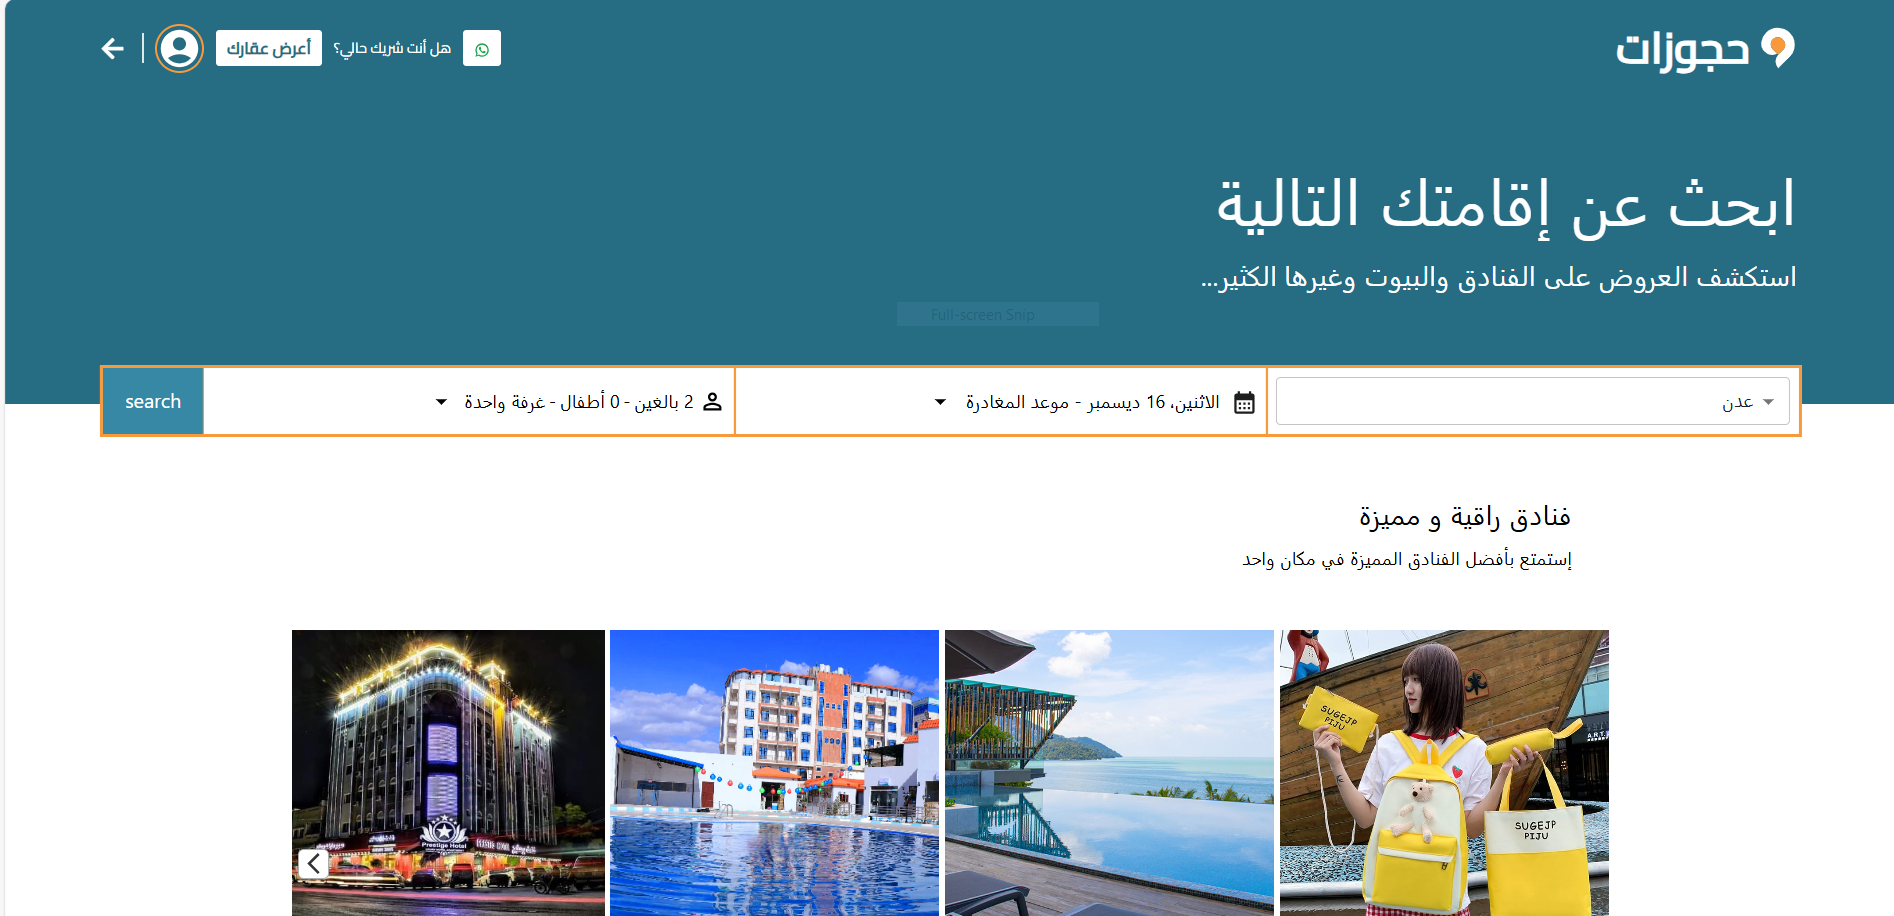
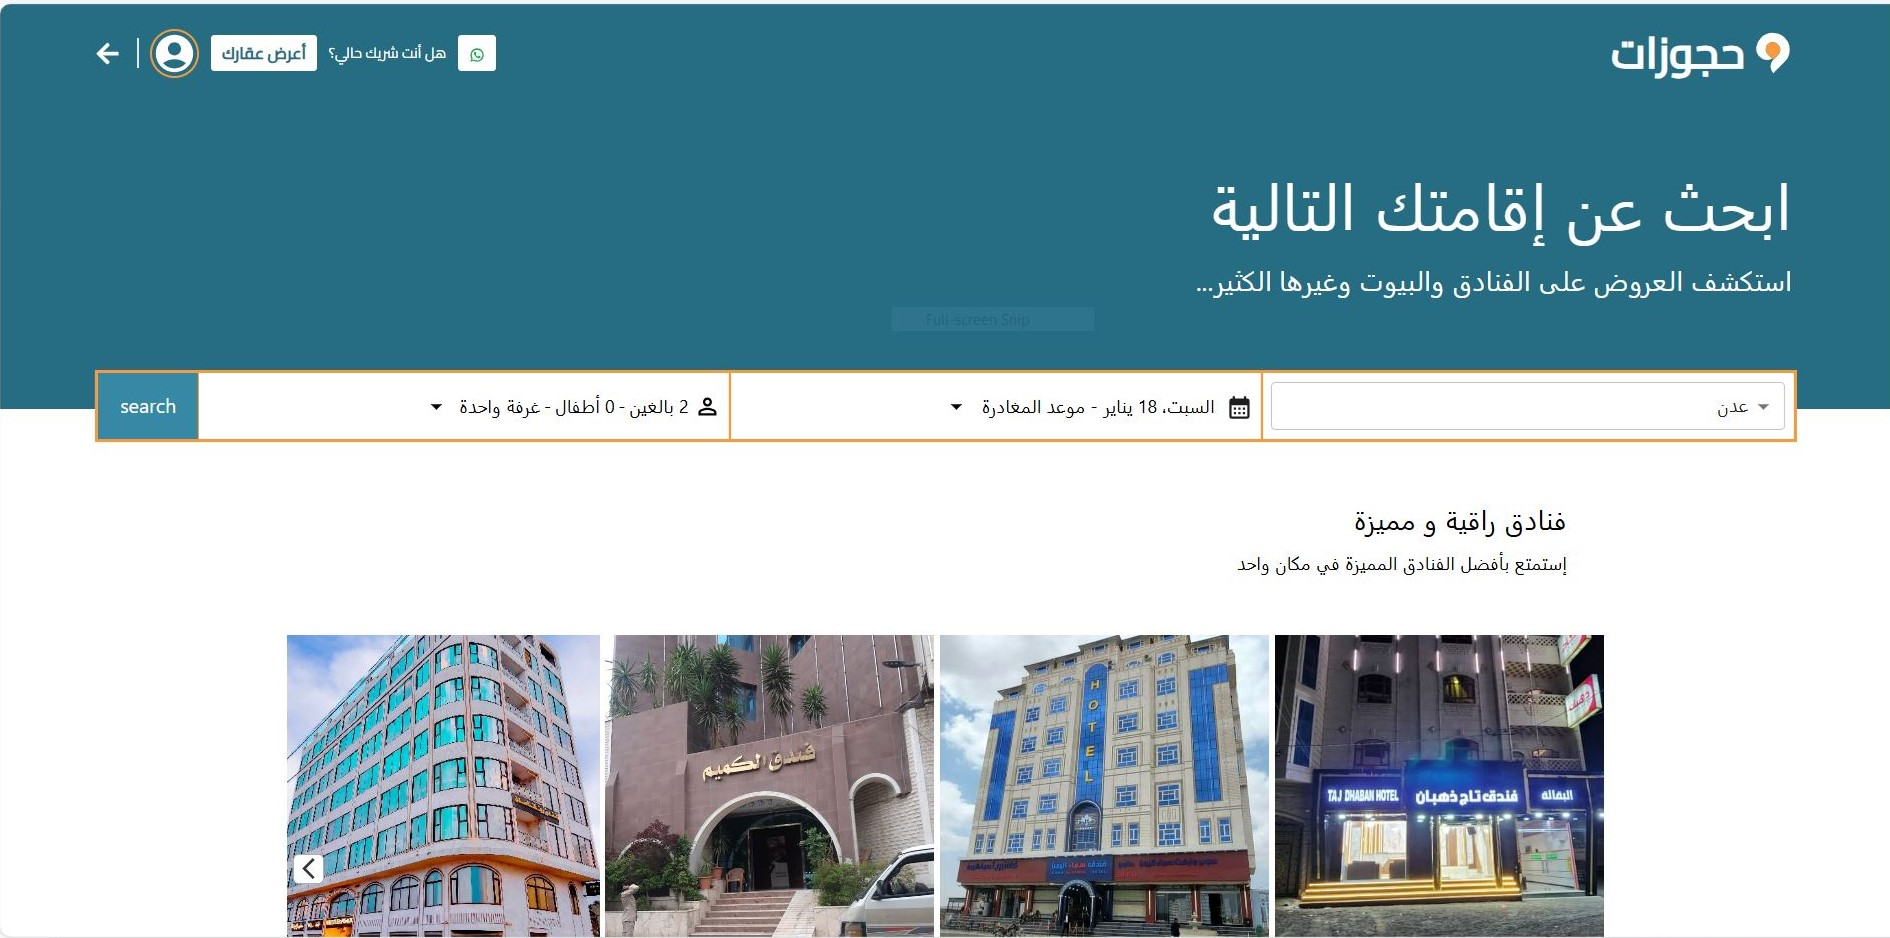
initial commmit

diff --git a/src/components/Projects.jsx b/src/components/Projects.jsx
@@ -10,7 +10,7 @@ import { Swiper, SwiperSlide } from "swiper/react";
 import SwiperCore from "swiper"
 import "swiper/css/bundle"
 const Projects = () => {
-    SwiperCore.use([Navigation, EffectCoverflow, Pagination])
+    SwiperCore.use([Navigation, EffectCoverflow])
 
 
 
@@ -39,10 +39,10 @@ const Projects = () => {
 
                     autoplay spaceBetween={10} centeredSlides={true} coverflowEffect={{
                         rotate: 0, depth: 100, modifier: 2.5, stretch: 0, slideShadows: 0
-                    }} effect="coverflow" grabCursor={true} loop={true} slidesPerView={1} modules={[Navigation, Pagination, EffectCoverflow]} pagination={{ clickable: true }} navigation={true}>
+                    }} effect="coverflow" grabCursor={true} loop={true} slidesPerView={1} modules={[Navigation, EffectCoverflow]} pagination={{ clickable: true }} navigation={true}>
                     {projects.map((project, index) => (
                         <SwiperSlide key={index} >
-                            <div className="h-[400px]  mx-auto max-w-[600px]  w-full  group perspective cursor-pointer  py-4  ">
+                            <div className="h-[320px]  mx-auto max-w-[450px]  w-full  group perspective cursor-pointer   ">
                                 <div className="relative  bg-background shadow-xl rounded h-full w-full group-hover:rotate-y-180   duration-1000 preserve-3d ">
                                     <div className="absolute backface-hidden  h-full w-full">
                                         <img className="h-[250px] rounded-lg   w-full  object-cover object-center " src={project.images[0].link} alt="" />

diff --git a/dist/index.html b/dist/index.html
@@ -5,8 +5,8 @@
     <link rel="icon" type="image/svg+xml" href="/react.svg" />
     <meta name="viewport" content="width=device-width, initial-scale=1.0" />
     <title>Adel Alradaie</title>
-    <script type="module" crossorigin src="/assets/index-xoIVPl16.js"></script>
-    <link rel="stylesheet" crossorigin href="/assets/index-H7GkAGWu.css">
+    <script type="module" crossorigin src="/assets/index-C7KkNnP4.js"></script>
+    <link rel="stylesheet" crossorigin href="/assets/index-BK19GIRo.css">
   </head>
   <body>
     <div id="root"></div>
